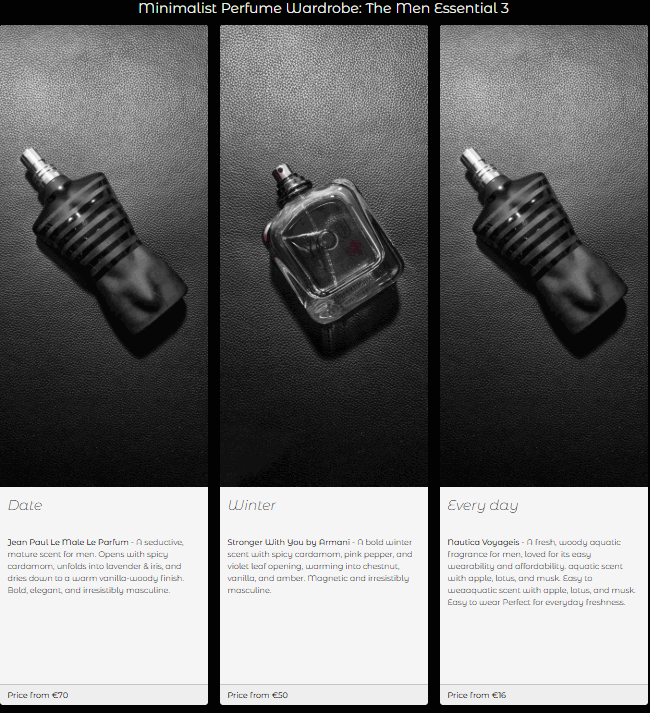
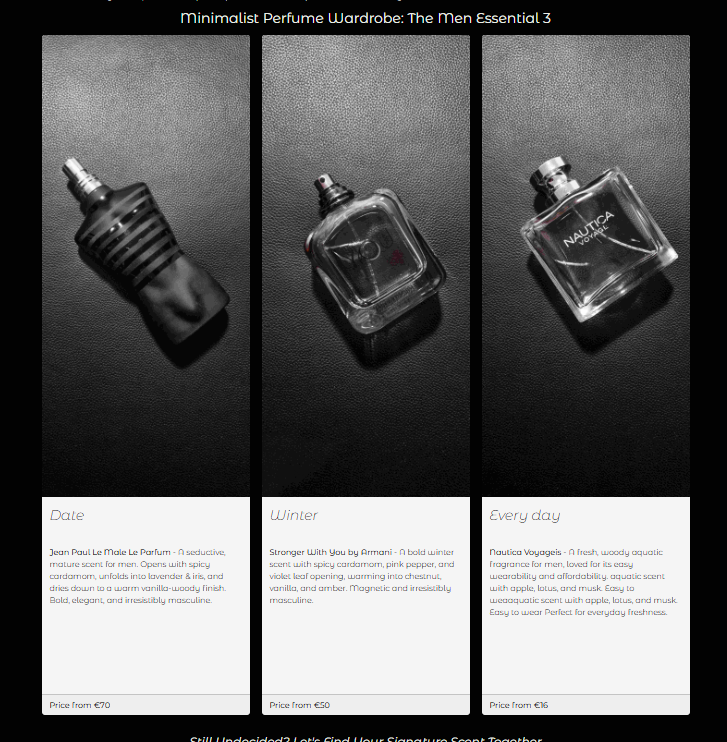
update the cards images

diff --git a/index.html b/index.html
@@ -121,7 +121,7 @@
                 </div>
                 <div class="col-12 col-md-4 col-xl-4">
                     <div class="card mb-2 mt-2">
-                        <img src="assets/images/datePerfumeOmar.jpg"  class="card-img-top" 
+                        <img src="assets/images/evrydayPerfumeOmar.jpg"  class="card-img-top" 
                         alt="A chess tournament being held at boardwalk-games">
                         <div class="card-body">
                             <h3 class="card-title sub-heading-color">Every day</h3>
